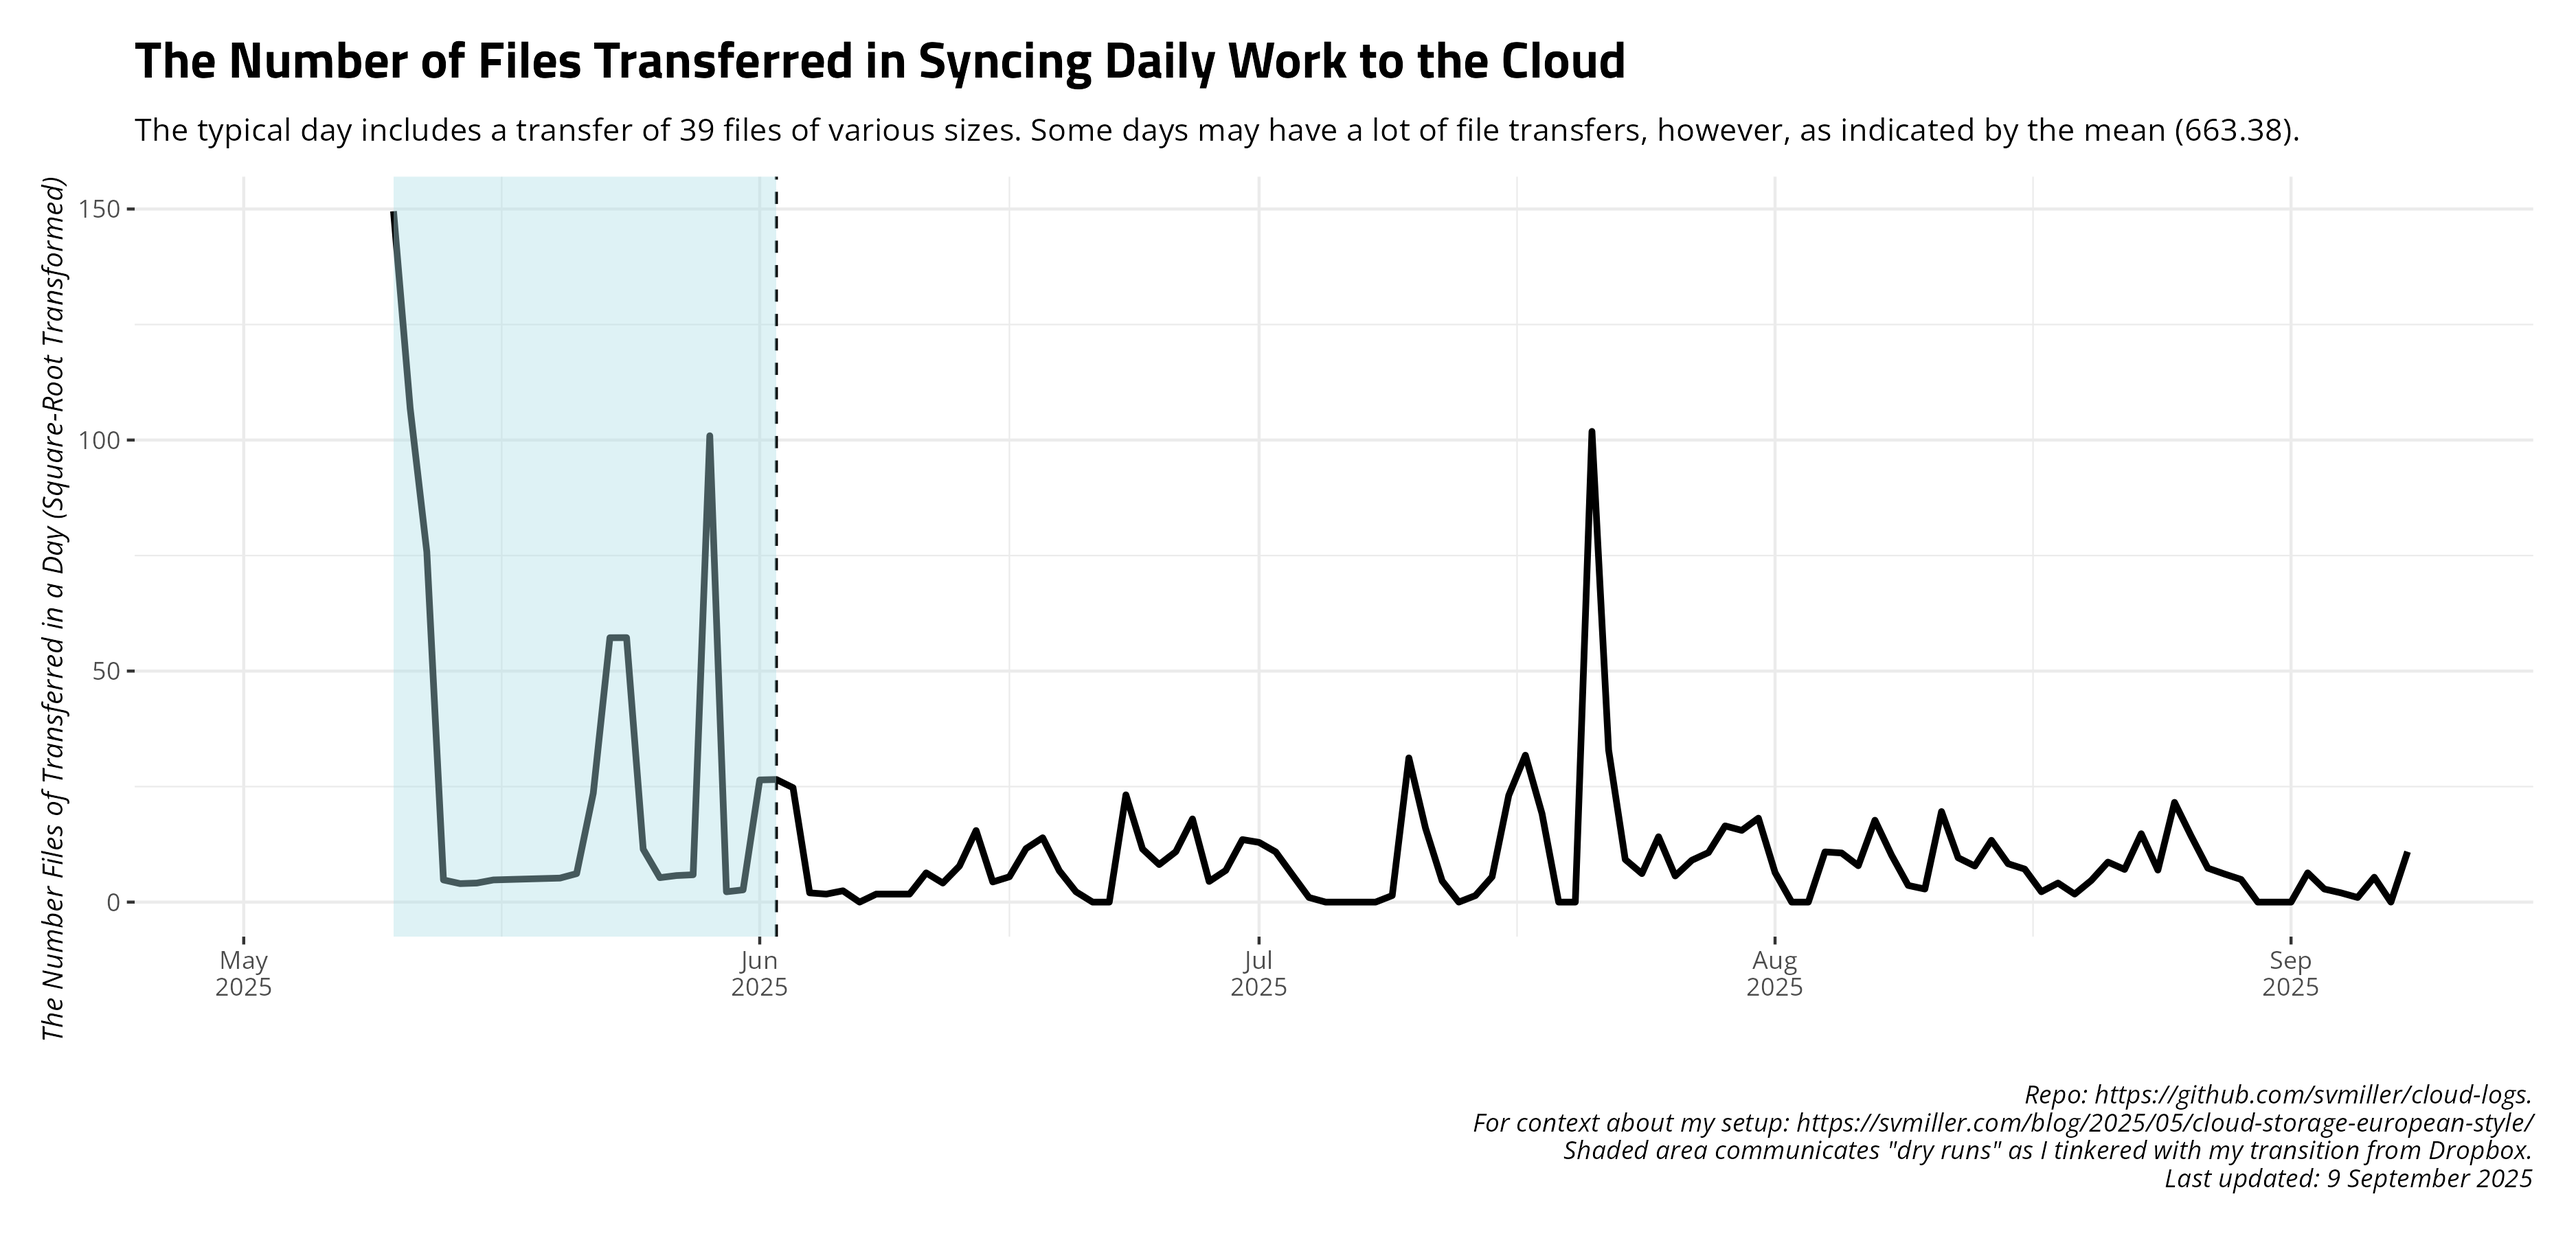
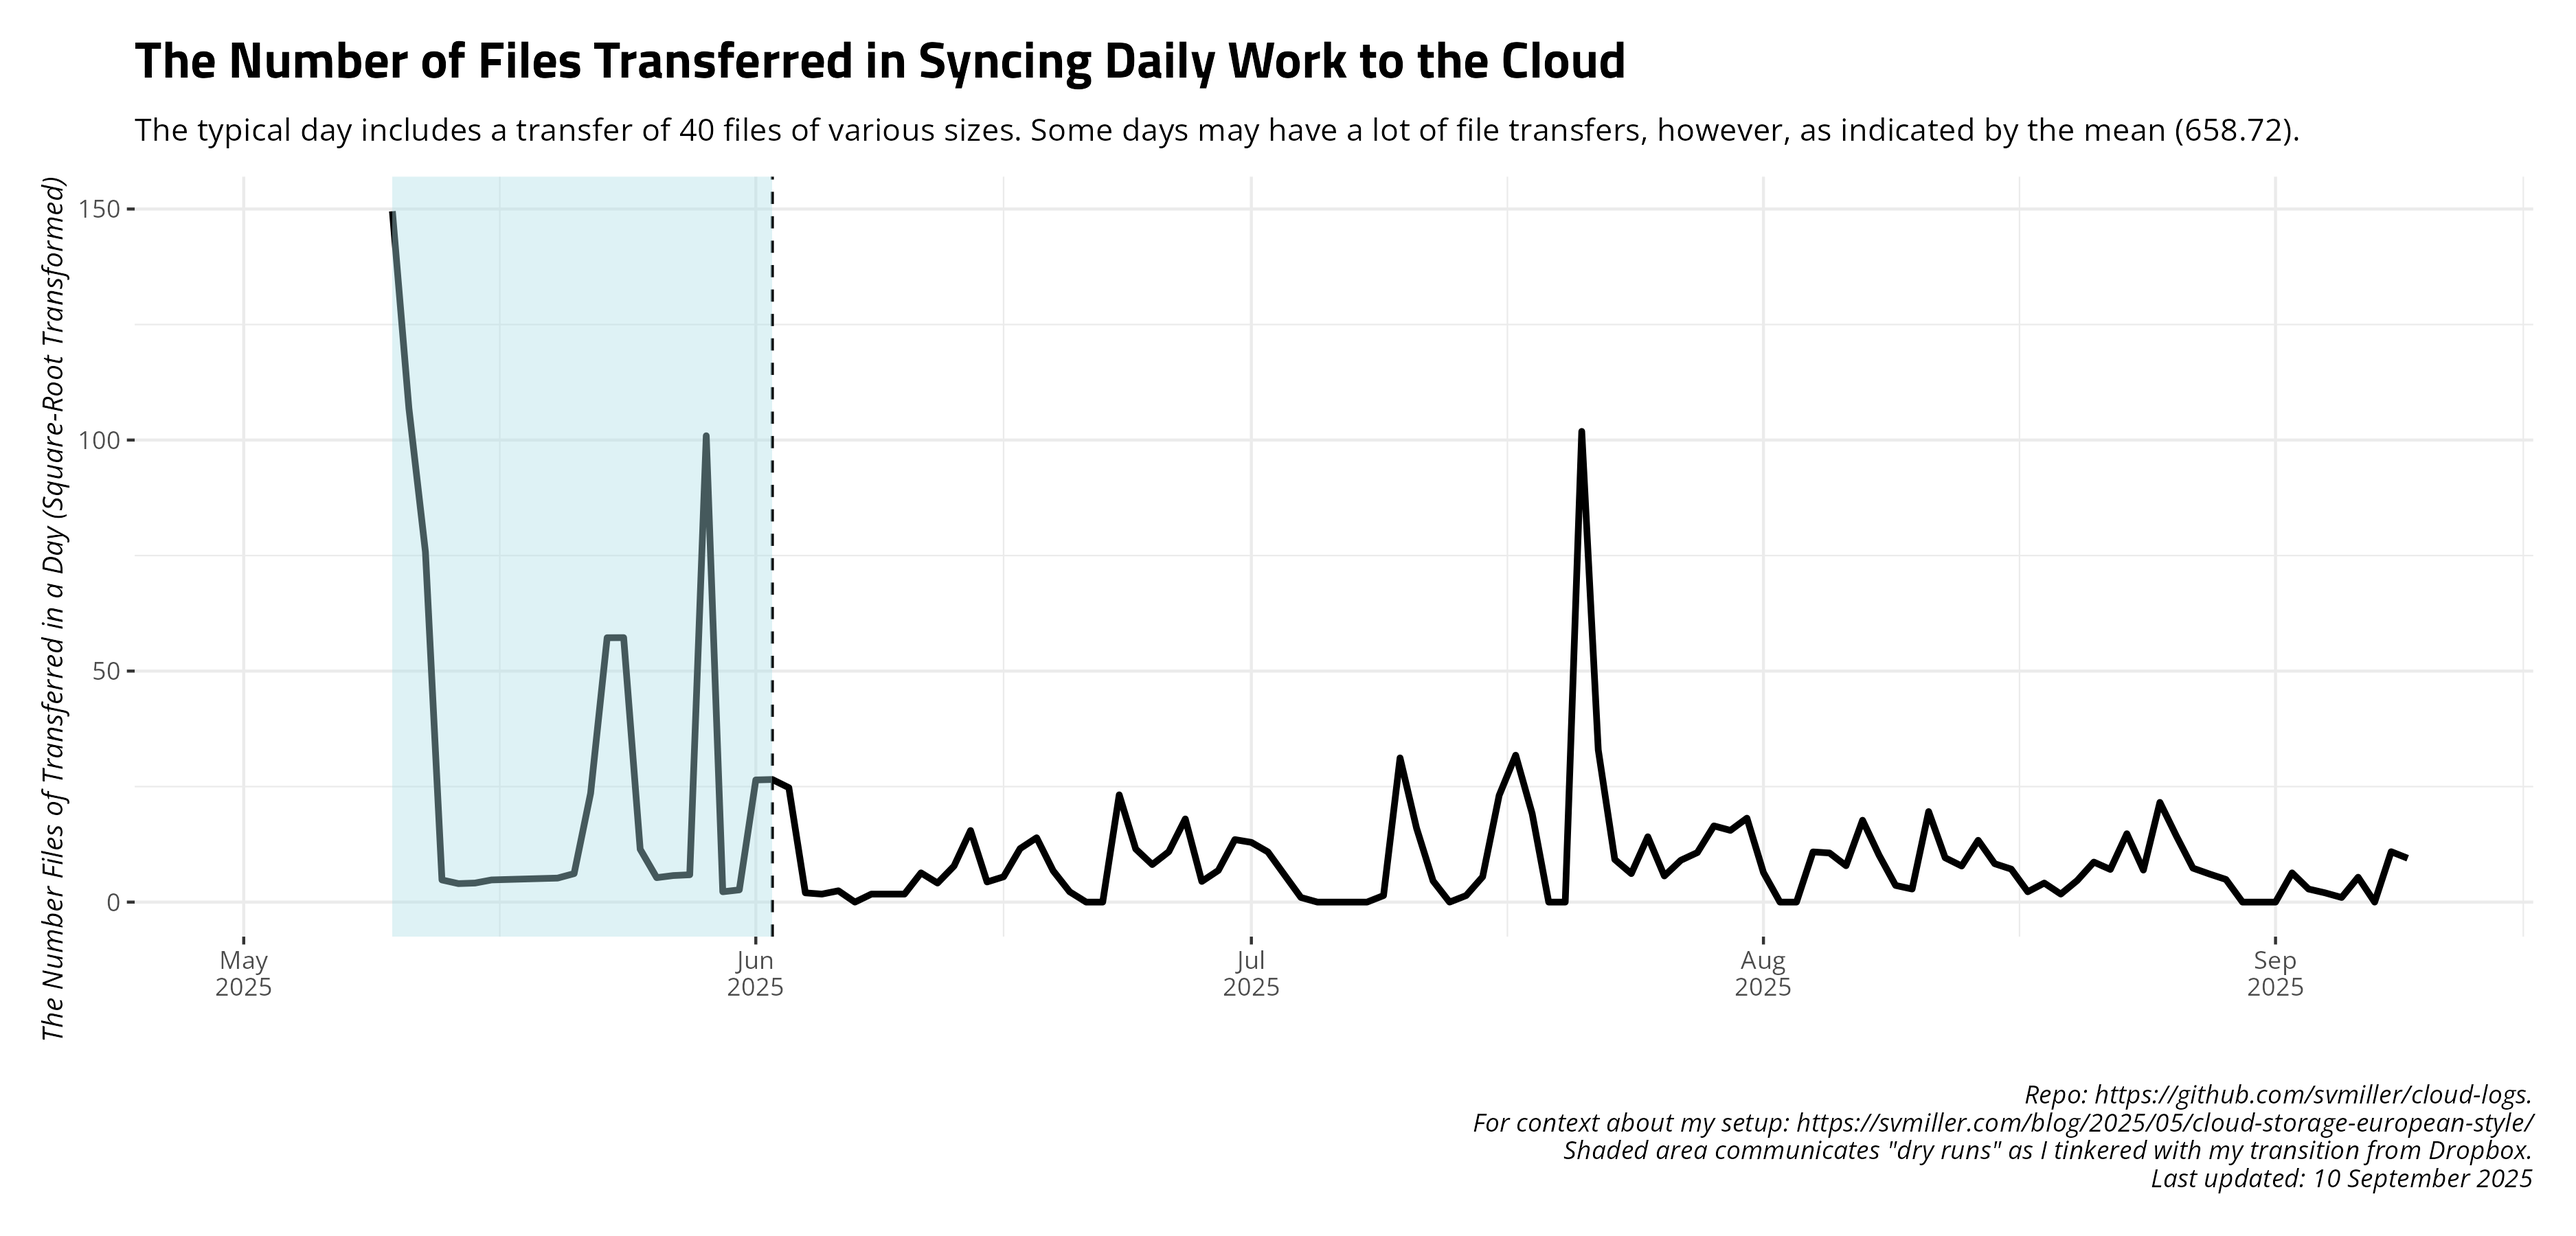
Date: 2025-09-10 09:00:13. Hi mom!

diff --git a/README.md b/README.md
@@ -27,17 +27,17 @@ and uploads to Github.
     #> # A tibble: 14 × 4
     #>    date       ftransfer stransfer   elapsed
     #>    <date>         <dbl> <chr>       <chr>  
-    #>  1 2025-08-26       204 33.605 MiB  7m26.6s
-    #>  2 2025-08-27        54 224.264 KiB 4m15.3s
-    #>  3 2025-08-28        37 151.144 KiB 3m59.5s
-    #>  4 2025-08-29        24 103.784 KiB 4m55.0s
-    #>  5 2025-08-30         0 <NA>        5m16.9s
-    #>  6 2025-08-31         0 <NA>        5m16.9s
-    #>  7 2025-09-01         0 <NA>        5m21.1s
-    #>  8 2025-09-02        40 153.396 KiB 13m1.5s
-    #>  9 2025-09-03         8 196.474 KiB 5m6.5s 
-    #> 10 2025-09-04         4 16.646 KiB  4m55.1s
-    #> 11 2025-09-05         1 14.804 MiB  5m22.4s
-    #> 12 2025-09-06        29 118.159 KiB 4m51.7s
-    #> 13 2025-09-07         0 <NA>        5m21.8s
-    #> 14 2025-09-08       119 1.400 MiB   4m12.4s
+    #>  1 2025-08-27        54 224.264 KiB 4m15.3s
+    #>  2 2025-08-28        37 151.144 KiB 3m59.5s
+    #>  3 2025-08-29        24 103.784 KiB 4m55.0s
+    #>  4 2025-08-30         0 <NA>        5m16.9s
+    #>  5 2025-08-31         0 <NA>        5m16.9s
+    #>  6 2025-09-01         0 <NA>        5m21.1s
+    #>  7 2025-09-02        40 153.396 KiB 13m1.5s
+    #>  8 2025-09-03         8 196.474 KiB 5m6.5s 
+    #>  9 2025-09-04         4 16.646 KiB  4m55.1s
+    #> 10 2025-09-05         1 14.804 MiB  5m22.4s
+    #> 11 2025-09-06        29 118.159 KiB 4m51.7s
+    #> 12 2025-09-07         0 <NA>        5m21.8s
+    #> 13 2025-09-08       119 1.400 MiB   4m12.4s
+    #> 14 2025-09-09        90 2.081 MiB   4m56.8s
